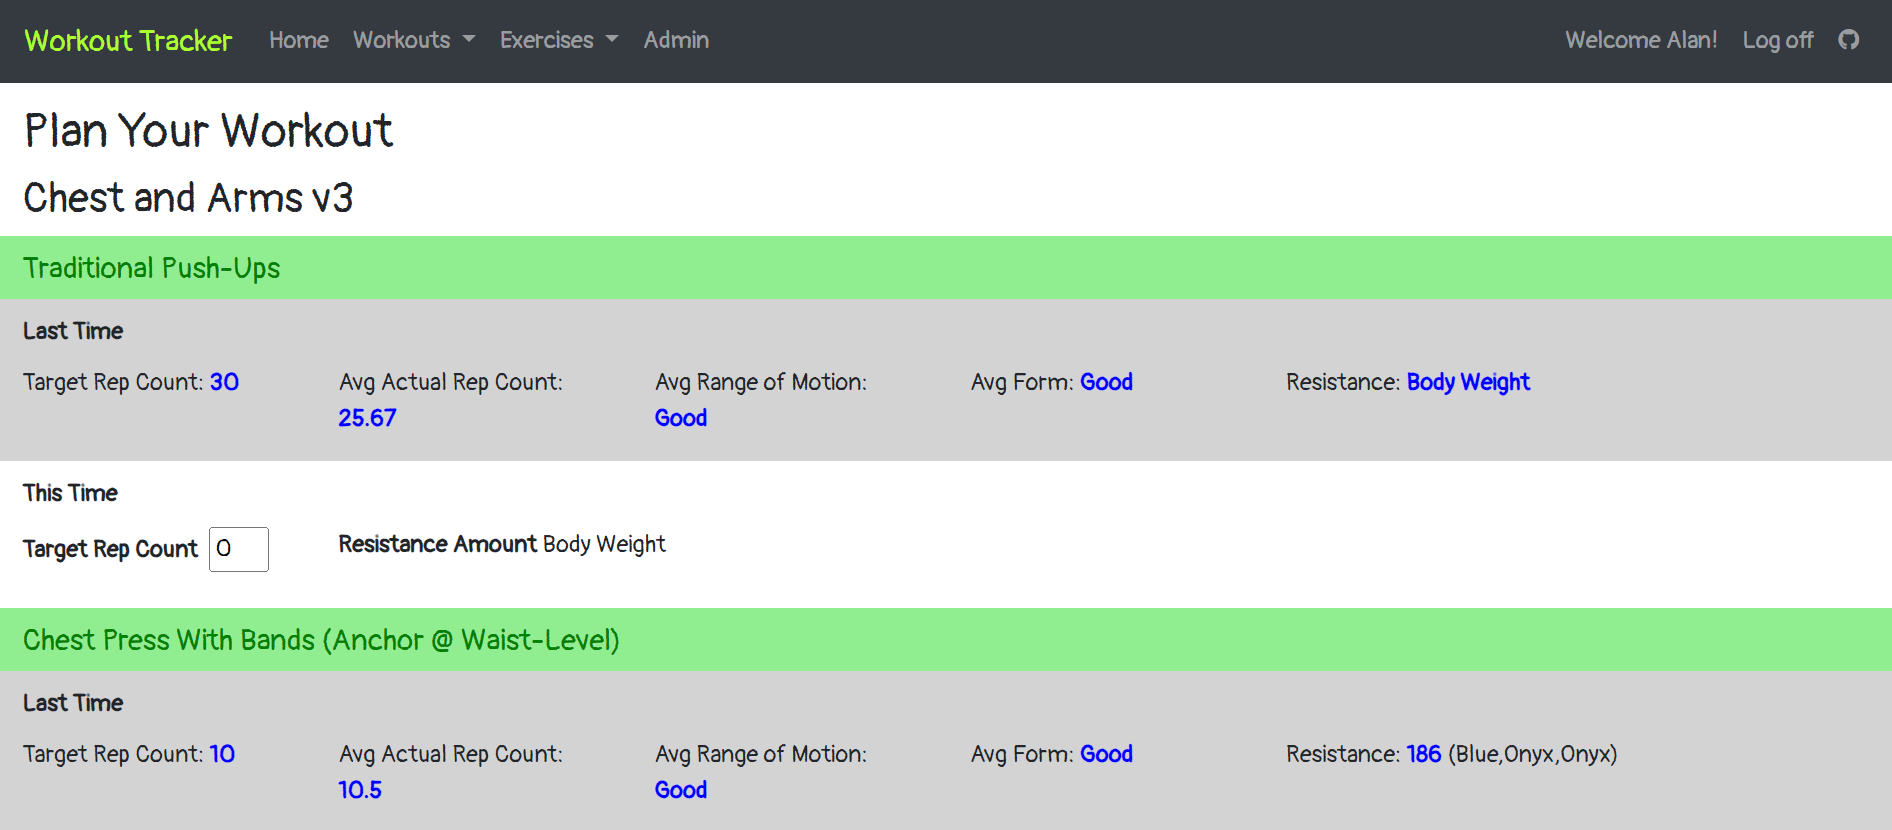
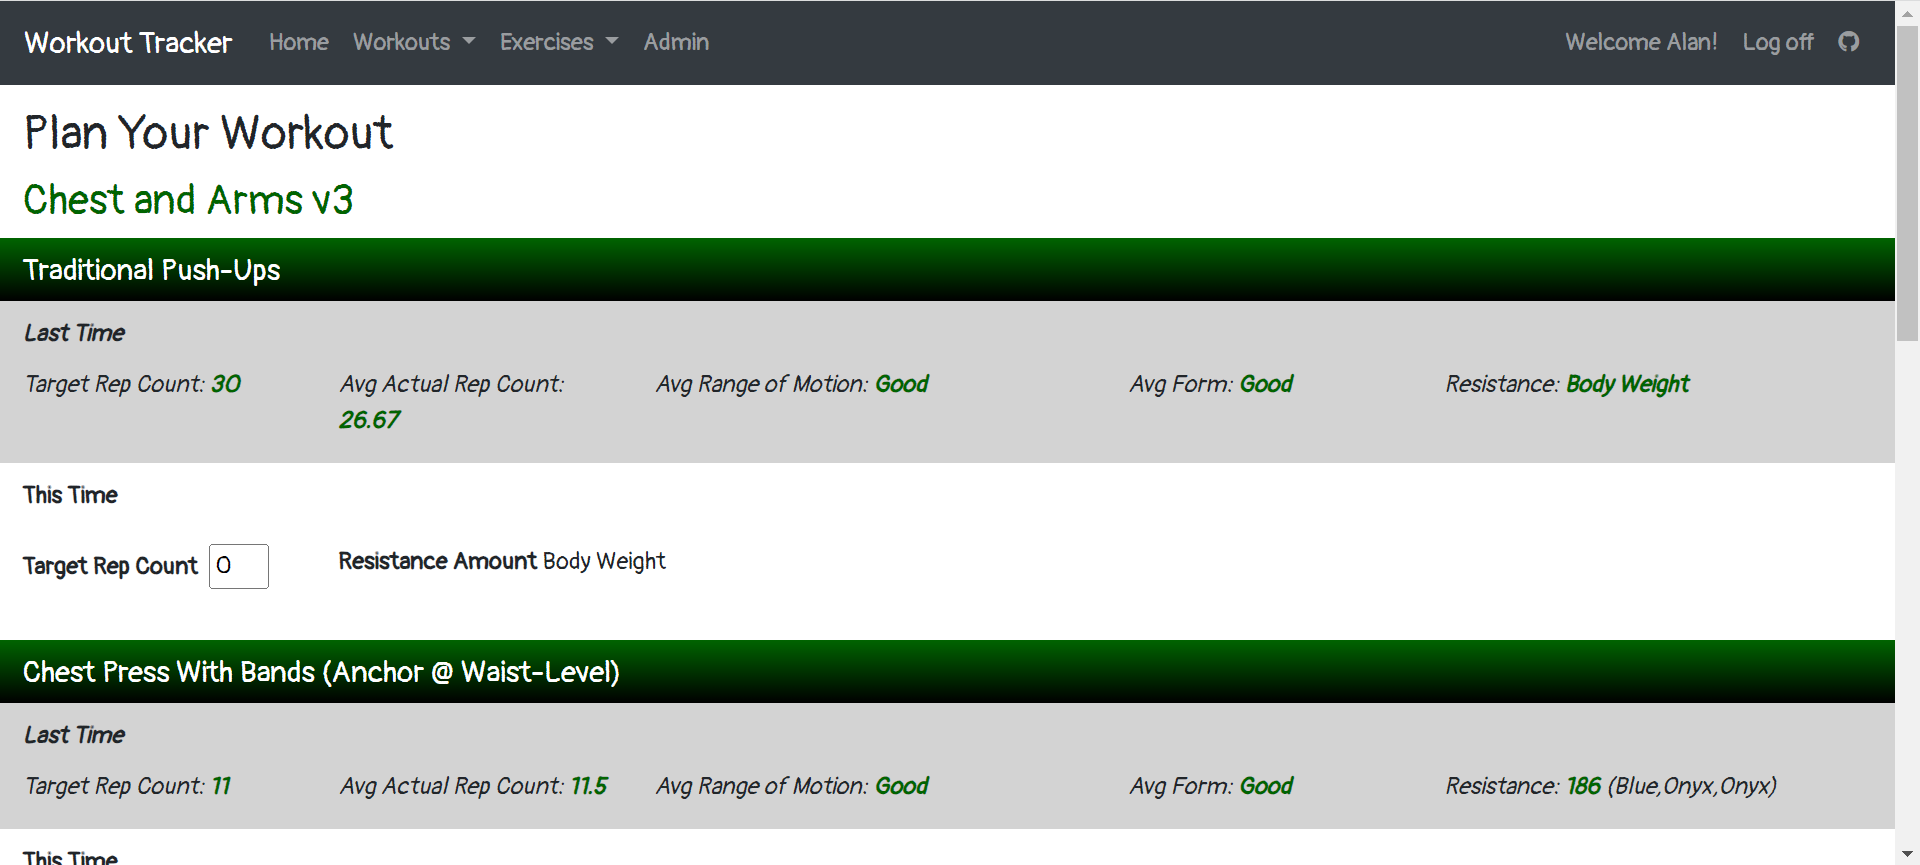
UI enhancements

diff --git a/WorkoutTracker.UI/workout-tracker/src/app/workouts/exercise-plan/exercise-plan.component.html b/WorkoutTracker.UI/workout-tracker/src/app/workouts/exercise-plan/exercise-plan.component.html
@@ -18,13 +18,13 @@
       <div class="col-2 form-group">
         Avg Actual Rep Count: <span class="pre-pop-value">{{formGroup.controls['avgActualRepCountLastTime'].value}}</span>
       </div>
-      <div class="col-2 form-group">
+      <div class="col-3 form-group">
         Avg Range of Motion: <span class="pre-pop-value">{{formGroup.controls['avgRangeOfMotionLastTime'].value | rating}}</span>
       </div>
       <div class="col-2 form-group">
         Avg Form: <span class="pre-pop-value">{{formGroup.controls['avgFormLastTime'].value | rating}}</span>
       </div>
-      <div class="col-4 form-group">
+      <div class="col-3 form-group">
         Resistance: <span class="pre-pop-value">{{formGroup.controls['resistanceType'].value==3 ? 'Body Weight' : formGroup.controls['resistanceAmountLastTime'].value}}</span>
         <span *ngIf="formGroup.controls['resistanceMakeupLastTime'].value">
           ({{formGroup.controls['resistanceMakeupLastTime'].value}})
@@ -76,9 +76,9 @@
               {{formGroup.controls['resistanceAmount'].value}}
               ({{formGroup.controls['resistanceMakeup'].value}})
             </ng-container>
-            <button class="lead-space btn btn-primary btn-sm" (click)="selectResistanceBands(formGroup)">Choose Resistance</button>
+            <button class="lead-space btn btn-choose-resistance btn-sm" (click)="selectResistanceBands(formGroup)">Choose Resistance</button>
           </span>
-          <button *ngIf="workoutHasBeenExecutedBefore && formGroup.controls['resistanceType'].value!=3" class="lead-space btn btn-primary btn-sm" (click)="useSameResistanceAsLastTime()">Use Same Resistance as Last Time</button>
+          <button *ngIf="workoutHasBeenExecutedBefore && formGroup.controls['resistanceType'].value!=3" class="lead-space btn btn-same-as-last-time btn-sm" (click)="useSameResistanceAsLastTime()">Use Same Resistance as Last Time</button>
           <span *ngIf="formGroup.controls['resistanceType'].value==3" class="no-input-value">
             Body Weight
           </span>

diff --git a/WorkoutTracker.UI/workout-tracker/src/app/core/guards/user-not-selected.guard.spec.ts b/WorkoutTracker.UI/workout-tracker/src/app/core/guards/user-not-selected.guard.spec.ts
@@ -1,6 +1,6 @@
 import { Component } from '@angular/core';
 import { TestBed } from '@angular/core/testing';
-import { Router } from '@angular/router';
+import { Router, RouterStateSnapshot } from '@angular/router';
 import { RouterTestingModule } from '@angular/router/testing';
 import { AuthService } from '../auth.service';
 import { UserNotSelectedGuard } from './user-not-selected.guard';
@@ -8,6 +8,8 @@ import { UserNotSelectedGuard } from './user-not-selected.guard';
 class AuthServiceMock {
   isUserLoggedIn =
     jasmine.createSpy('isUserLoggedIn').and.returnValue(true);
+
+  loginRoute: string = "login";
 }
 
 @Component({})
@@ -43,9 +45,10 @@ describe('UserNotSelectedGuard', () => {
     //ARRANGE
     const router = TestBed.inject(Router);
     spyOn(router, 'navigate').and.callThrough();
+    const state = <RouterStateSnapshot>{ url: "login" };
 
     //ACT
-    const result = guard.canActivate(null, null);
+    const result = guard.canActivate(null, state);
 
     //ASSERT
     expect(result).toBeFalse();

diff --git a/WorkoutTracker.UI/workout-tracker/src/app/workouts/workout/workout.component.html b/WorkoutTracker.UI/workout-tracker/src/app/workouts/workout/workout.component.html
@@ -32,11 +32,14 @@
           </div>
         </div>
 
-        <button type="submit" class="btn btn-primary" [disabled]="!workoutForm.valid || saving || workoutCompleted" (click)="completeWorkout()">Complete Workout</button>
+        <button type="submit" *ngIf="!workoutCompleted" class="btn btn-primary" [disabled]="!workoutForm.valid || saving || workoutCompleted" (click)="completeWorkout()">Complete Workout</button>
         <span *ngIf="saving">Saving...</span>&nbsp;{{infoMsg}}
       </ng-container>
     </fieldset>
   </form>
+  <button *ngIf="workoutCompleted" class="btn btn-success" routerLink="/workouts/history">View Workout History</button>
+  &nbsp;
+  <button *ngIf="workoutCompleted" class="btn btn-success" routerLink="/workouts/select-for-later">Plan Next Workout</button>
 
   <p-dialog header="Select Resistance Bands" [(visible)]="showResistanceBandsSelectModal">
     <wt-resistance-band-select 

diff --git a/WorkoutTracker.UI/workout-tracker/src/app/workouts/exercise-plan/exercise-plan.component.css b/WorkoutTracker.UI/workout-tracker/src/app/workouts/exercise-plan/exercise-plan.component.css
@@ -4,16 +4,16 @@
 }
 
 .pre-pop-value {
-  color: blue;
+  color: darkgreen;
   font-weight: bold;
 }
 
 .exercise-header-row {
-  color:green;
+  color: white;
 }
 
 .exercise-name {
-  background-color: lightgreen;
+  background-image: linear-gradient(darkgreen , black);
   padding-top: 10px;
 }
 
@@ -32,11 +32,23 @@ label {
 .last-time {
   padding-top: 10px;
   background-color: lightgrey;
+  font-style: italic;
 }
 
 .this-time {
   padding-top: 10px;  
   background-color:white;
+  padding-bottom: 10px;
+}
+
+.btn-choose-resistance {
+  color: white;
+  background-color: darkgreen;
+}
+
+.btn-same-as-last-time {
+  color: white;
+  background-color: darkgreen;
 }
 
 /* Suppress numeric input arrows/spinners as explained at https://www.w3schools.com/howto/howto_css_hide_arrow_number.asp */

diff --git a/WorkoutTracker.UI/workout-tracker/src/app/core/guards/user-not-selected.guard.ts b/WorkoutTracker.UI/workout-tracker/src/app/core/guards/user-not-selected.guard.ts
@@ -1,5 +1,5 @@
 import { Injectable } from '@angular/core';
-import { CanActivate, ActivatedRouteSnapshot, RouterStateSnapshot, UrlTree, Router } from '@angular/router';
+import { CanActivate, ActivatedRouteSnapshot, RouterStateSnapshot, UrlTree, Router, ActivatedRoute } from '@angular/router';
 import { Observable } from 'rxjs';
 import { AuthService } from '../auth.service';
 
@@ -20,6 +20,9 @@ export class UserNotSelectedGuard implements CanActivate {
         returnValue = false;
         this._router.navigate(['home']);
       }
+
+      if(state.url.indexOf(this._authService.loginRoute) < 0)
+        this._router.navigate([this._authService.loginRoute]);
 
       return returnValue;
 

diff --git a/WorkoutTracker.UI/workout-tracker/src/app/workouts/workout/workout.component.ts b/WorkoutTracker.UI/workout-tracker/src/app/workouts/workout/workout.component.ts
@@ -296,7 +296,7 @@ export class WorkoutComponent implements OnInit {
           if (completed) {
             this.infoMsg = "Completed workout saved at " + new Date().toLocaleTimeString();
             this.workoutCompleted = true;
-            this._messageService.add({severity:'success', summary: 'Success!', detail: 'Workout completed!', life: 3000});
+            this._messageService.add({severity:'success', summary: 'Success!', detail: 'Workout completed!', life: 5000});
           }
           else
             this._messageService.add({severity:'success', summary: 'Success!', detail: 'Progress updated!', life: 1000});

diff --git a/WorkoutTracker.UI/workout-tracker/src/app/user-select/user-select.component.ts b/WorkoutTracker.UI/workout-tracker/src/app/user-select/user-select.component.ts
@@ -22,9 +22,6 @@ export class UserSelectComponent implements OnInit {
     private _router: Router) { }
 
   public ngOnInit(): void {
-    if (this._authService.loginRoute != "user-select")
-      this._router.navigate([this._authService.loginRoute]);
-
     this.loadingUsers = true;
     this._userSvc.getAll().subscribe((results: Array<User>) => {
       this.users = results;

diff --git a/WorkoutTracker.UI/workout-tracker/src/app/login/login.component.ts b/WorkoutTracker.UI/workout-tracker/src/app/login/login.component.ts
@@ -23,9 +23,6 @@ export class LoginComponent implements OnInit {
   }
 
   public ngOnInit(): void {
-    if (this._authService.loginRoute != "login")
-      this._router.navigate([this._authService.loginRoute]);
-
     this.createForm();
   }
 

diff --git a/WorkoutTracker.UI/workout-tracker/src/app/app-routing.module.ts b/WorkoutTracker.UI/workout-tracker/src/app/app-routing.module.ts
@@ -32,7 +32,8 @@ const routes: Routes = [
   }, 
   {
     path: 'login', 
-    component: LoginComponent
+    component: LoginComponent,
+    canActivate: [UserNotSelectedGuard]
   },
   {
     path: 'denied',

diff --git a/WorkoutTracker.UI/workout-tracker/src/app/workouts/workout-plan/workout-plan.component.css b/WorkoutTracker.UI/workout-tracker/src/app/workouts/workout-plan/workout-plan.component.css
@@ -5,3 +5,7 @@
 .submit-row {
   padding-top: 10px;
 }
+
+h3 {
+  color: darkgreen;
+}
